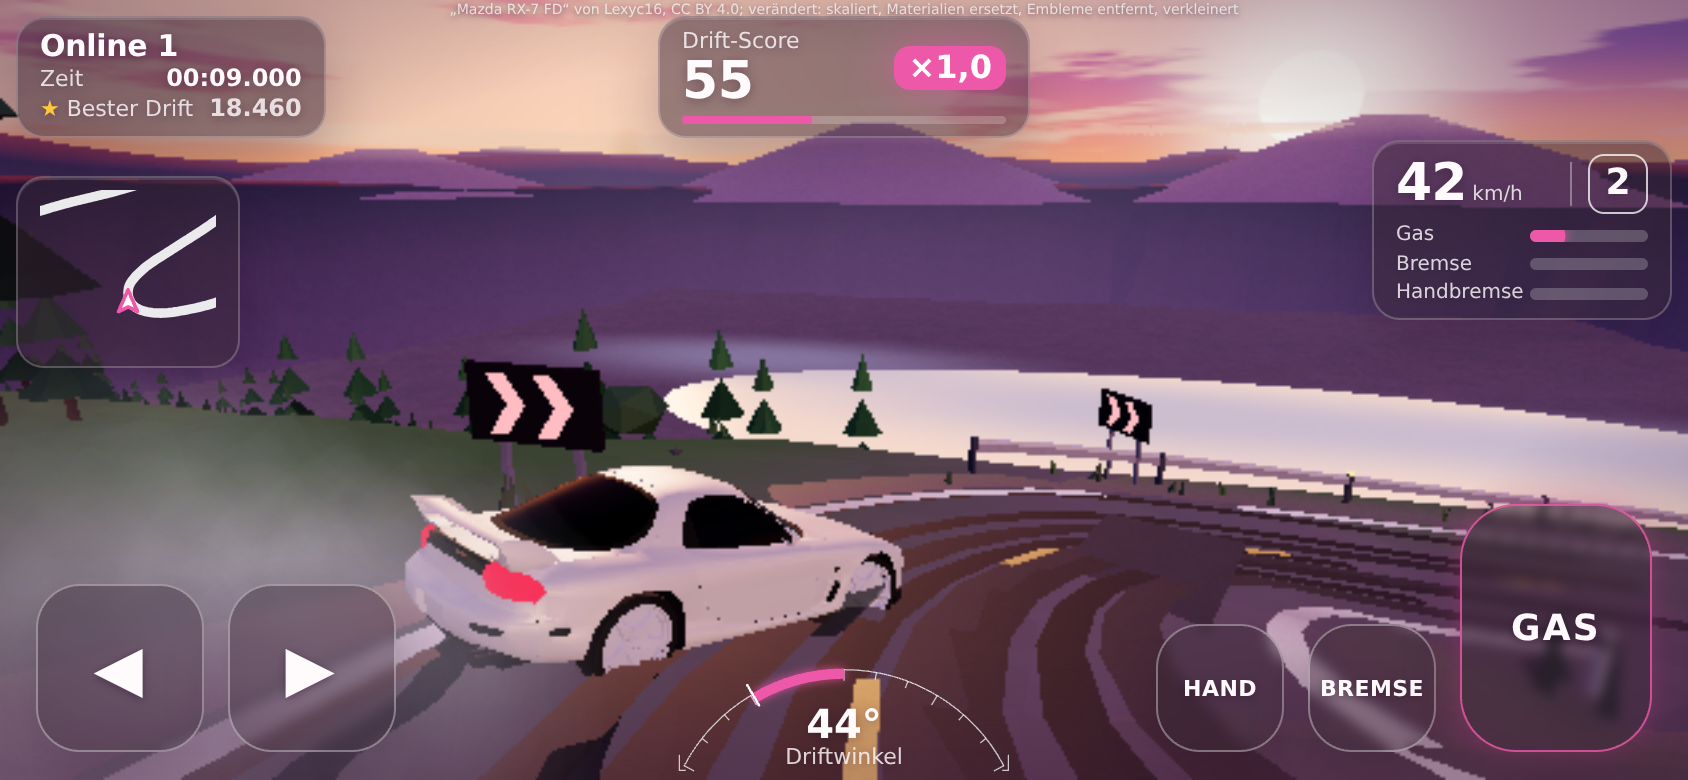
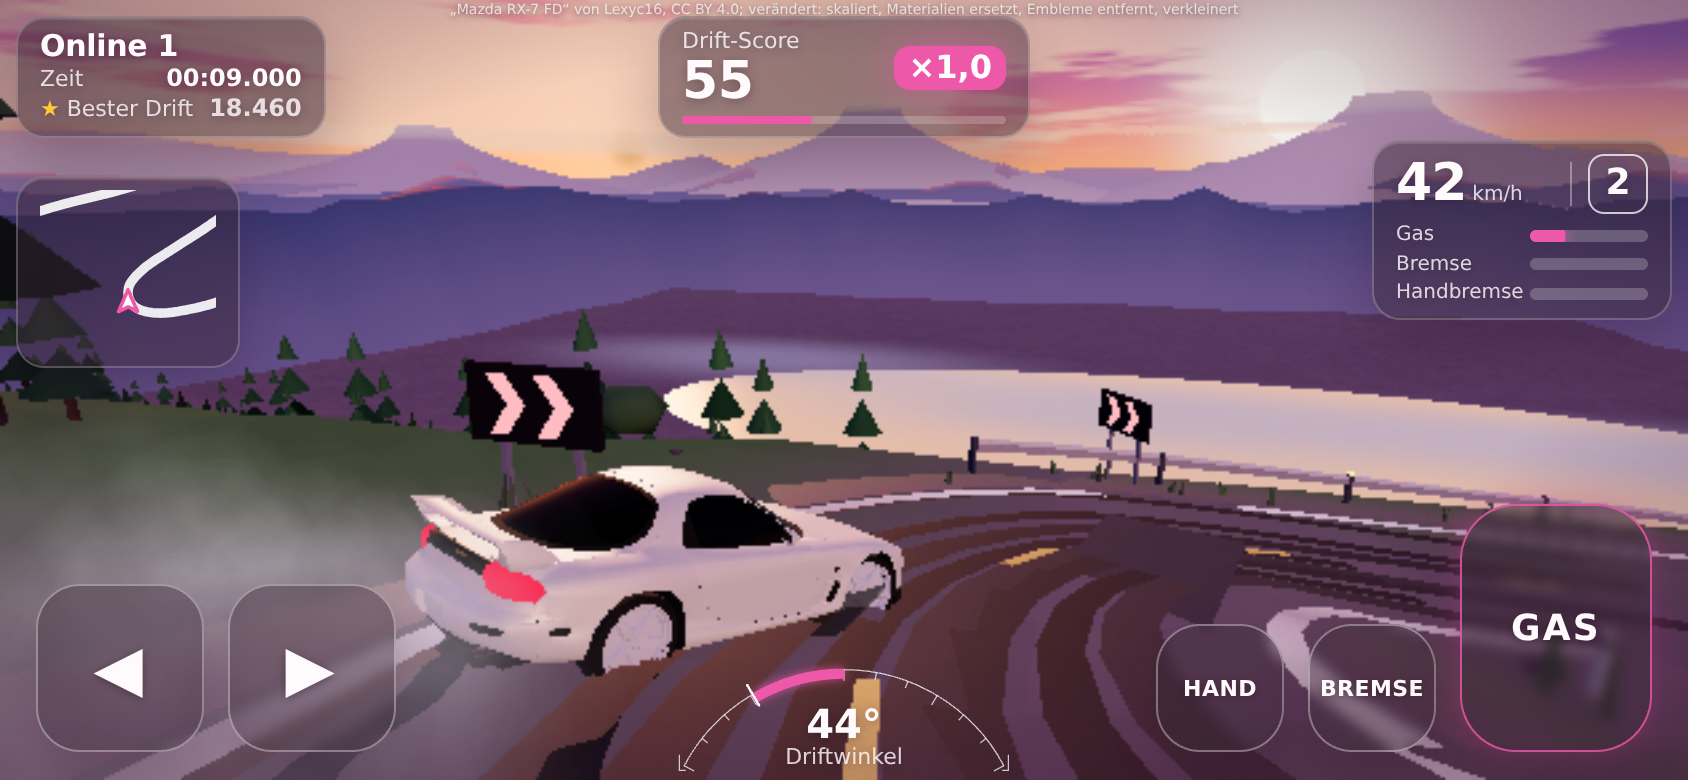
Touge look round 4 (chief's points 1-4): staggered unlit ridge layers lighter with distance (look.farUnlit), soft lathe volcanoes, smooth look, the lake mirrors the sky by direction with a light path, smoke capped in height and size; LOOK-LOG.md

diff --git a/game/view/look/world.js b/game/view/look/world.js
@@ -60,7 +60,10 @@ export function buildWorld(scene, look, tierName = 'high') {
   const onPlaza = scene.plaza && !scene.road.overPlaza ? (x, z) => insidePoly(scene.plaza.pts, x, z) : () => false;   // (`overPlaza`: the road is drawn on top of the flat area, as a track on a quay or a desert)
 
   land(S, f, scene, look, tier);
-  ridges(S, scene, look, tier);
+  // the far mountains: unlit when the look says so (`farUnlit`), so each layer keeps its own colour (lighter and rosier with distance,
+  // as in the mockup) instead of lying dark in its own shade against the low sun
+  const Far = new Builder({ seed: 8, jitter: 0, wobble: 0, bake: false });
+  ridges(look.farUnlit ? Far : S, scene, look, tier);
   const water = river(f, scene, look);
   if (scene.bridge) bridge(S, f, scene, look, lite);
   // the road has its own mesh: a slightly glossy material that shines in the low sun (the page gives it the sky as reflection)
@@ -95,6 +98,7 @@ export function buildWorld(scene, look, tierName = 'high') {
       diffuseColor.rgb *= 1.0 + tone;`);
   };
   const lights = new THREE.Mesh(G.build(), makeGlow());
+  const far = Far.count ? new THREE.Mesh(Far.build(), new THREE.MeshBasicMaterial({ vertexColors: true })) : null;
   const roadMesh = new THREE.Mesh(Rb.build(), new THREE.MeshStandardMaterial({ vertexColors: true, roughness: look.road.roughness ?? 0.5, metalness: 0, envMapIntensity: look.road.sheen ?? 0.8 }));
   roadMesh.receiveShadow = true;
   // the grain of the asphalt: fine speckles and coarse blotches from the world position (no texture file)
@@ -110,7 +114,8 @@ export function buildWorld(scene, look, tierName = 'high') {
   };
   group.add(solid, lights, roadMesh);
   if (water) group.add(water);
-  return { group, field: f, lampHeads, road: roadMesh, triangles: [solid, lights, water, roadMesh].filter(Boolean).reduce((n, m) => n + m.geometry.index.count / 3, 0) };
+  if (far) group.add(far);
+  return { group, field: f, lampHeads, road: roadMesh, triangles: [solid, lights, water, roadMesh, far].filter(Boolean).reduce((n, m) => n + m.geometry.index.count / 3, 0) };
 }
 
 // ---------------------------------------------------------------- the land: a grid over the extent, fine near the road (the core), coarser
@@ -163,11 +168,13 @@ function volcanoes(S, scene, look) {
   for (const [x, z, r, h, k] of scene.volcanoes ?? []) {
     // air between: the farther layer the more of the haze; a lighter crater rim (snow or bare rock, look.volcano.rim) at the top
     const V = look.volcano ?? {}, vh = C(V.hazeColour ?? look.fog.colour), base = C(look.ridges[Math.min(look.ridges.length - 1, k ?? 0)]).lerp(vh, V.haze ?? 0.35), top = base.clone().lerp(C(V.rim ?? '#ffffff'), V.rimMix ?? 0.15);
-    const g = new THREE.CylinderGeometry(r * 0.12, r, h, 28, 3, true);
+    // a lathe with concave flanks (wide skirt, steep upper cone, a small crater): soft, not a sharp-edged cone
+    const prof = []; for (let j = 0; j <= 10; j++) { const t = j / 10; prof.push(new THREE.Vector2(r * (0.1 + 0.9 * Math.pow(1 - t, 1.8)), t * h)); }
+    const g = new THREE.LatheGeometry(prof, 40);
     const p = g.attributes.position, col = new Float32Array(p.count * 3), c = new THREE.Color();
-    for (let i = 0; i < p.count; i++) { const t = (p.getY(i) + h / 2) / h, a = Math.atan2(p.getZ(i), p.getX(i)); p.setY(i, p.getY(i) + noise2(a * 3 + x, t * 4) * h * 0.04 * (1 - t)); c.copy(base).lerp(top, smoothstep(0.75, 0.95, t)).lerp(haze, (1 - t) * 0.45); col.set([c.r, c.g, c.b], i * 3); }
+    for (let i = 0; i < p.count; i++) { const t = p.getY(i) / h, a = Math.atan2(p.getZ(i), p.getX(i)); p.setY(i, p.getY(i) + noise2(a * 3 + x, t * 4) * h * 0.035 * (1 - t)); c.copy(base).lerp(top, smoothstep(0.78, 0.97, t)).lerp(haze, (1 - t) * 0.45); col.set([c.r, c.g, c.b], i * 3); }
     g.setAttribute('color', new THREE.BufferAttribute(col, 3)); g.computeVertexNormals();
-    S.add(g, null, { m: trs(X(x), h / 2 - h * 0.12, z), keepColors: true, jitter: 0, wobble: 0 });
+    S.add(g, null, { m: trs(X(x), -h * 0.1, z), keepColors: true, jitter: 0, wobble: 0 });
   }
 }
 
@@ -208,9 +215,12 @@ function river(f, scene, look) {
   if (scene.sea) { const [a0, b0, a1, b1] = scene.terrain.extent; geos.push(gridGeo(5, 5, (r, c) => { const x = a0 + (c / 4) * (a1 - a0), z = b0 + (r / 4) * (b1 - b0); k.copy(deep).lerp(light, 0.2 + 0.25 * noise2(x / 120, z / 120)); return [X(x), scene.sea.y, z, k]; })); }
   // the lake: rings of an ellipse, lighter towards the middle
   const K = scene.lake, ky = K ? f.waterY(K.x, K.z, K.y) : 0;
-  if (K) geos.push(gridGeo(8, 49, (r, c) => {
-    const q = 1 - r / 7, a = (c / 48) * Math.PI * 2;
-    k.copy(deep).lerp(light, 0.15 + (1 - q) * 0.55);
+  if (K) geos.push(gridGeo(10, 97, (r, c) => {
+    const q = 1 - r / 9, a = (c / 96) * Math.PI * 2;
+    // the sky in the water: bright and orange on the side towards the sun, darker towards the viewer, and a path of light to the sun
+    const sd = look.sun?.dir ?? [0, 0, -1], sl = Math.hypot(sd[0], sd[2]) || 1, ux = Math.cos(a) * q, uz = Math.sin(a) * q;
+    const along = (ux * sd[0] + uz * sd[2]) / sl, across = Math.abs(ux * sd[2] - uz * sd[0]) / sl;
+    k.copy(deep).lerp(light, Math.min(1, 0.12 + 0.5 * smoothstep(-0.6, 1, along) + 0.45 * (1 - smoothstep(0.02, 0.14, across)) * smoothstep(-0.2, 0.9, along)));
     return [X(K.x + Math.cos(a) * K.rx * q), ky, K.z + Math.sin(a) * K.rz * q, k];
   }));
   if (!geos.length) return null;

diff --git a/game/view/look/billows.js b/game/view/look/billows.js
@@ -85,6 +85,8 @@ export class Billows {
     this.life0 = S.life ?? 2.0; this.lifeK = S.lifeGrow ?? 1.6; this.grow0 = S.start ?? 2.0; this.growK = S.spread ?? 6.5;
     this.burst = S.burst ?? 1; this.burstTime = S.burstTime ?? 0.5; this.fade = S.fade ?? 0.5;
     this.clock = 0; this.lastEmit = -9; this.slideStart = 0;
+    // never a wall: the puffs rise at most `maxRise` m over where they started and grow to at most `maxSize` m
+    this.maxRise = S.maxRise ?? 99; this.maxSize = S.maxSize ?? 99; this.base = new Float32Array(this.cap);
   }
   /** The car's place for the fade (drawing space) and the camera: puffs in front of the car that would cover it fade out. */
   aim(camera, radius = 1.6) {
@@ -94,7 +96,7 @@ export class Billows {
   rnd() { this.seed = (this.seed * 16807) % 2147483647; return this.seed / 2147483647; }
   emit(x, y, z, vx, vz, strength) {
     const i = this.next; this.next = (this.next + 1) % this.cap;
-    this.pos.set([x, y + 0.3, z], i * 3);
+    this.pos.set([x, y + 0.3, z], i * 3); this.base[i] = y;
     this.vel.set([vx + (this.rnd() - 0.5) * 1.4, 0.35 + strength * 0.4, vz + (this.rnd() - 0.5) * 1.4], i * 3);
     if (this.clock - this.lastEmit > 0.4) this.slideStart = this.clock;
     this.lastEmit = this.clock;
@@ -107,6 +109,7 @@ export class Billows {
       if (this.age[i] >= this.life[i]) continue;
       this.age[i] += dt;
       for (let a = 0; a < 3; a++) this.pos[i * 3 + a] += this.vel[i * 3 + a] * dt;
+      if (this.pos[i * 3 + 1] > this.base[i] + this.maxRise) { this.pos[i * 3 + 1] = this.base[i] + this.maxRise; this.vel[i * 3 + 1] = 0; }
       this.vel[i * 3] *= 1 - dt * 0.7; this.vel[i * 3 + 2] *= 1 - dt * 0.7;
     }
   }
@@ -115,7 +118,7 @@ export class Billows {
     for (let i = 0; i < this.cap; i++) {
       const k = this.age[i] / this.life[i];
       d[i * 4] = this.pos[i * 3]; d[i * 4 + 1] = this.pos[i * 3 + 1]; d[i * 4 + 2] = this.pos[i * 3 + 2];
-      d[i * 4 + 3] = k >= 1 ? 0 : (this.grow0 + k * this.growK) * this.grow[i] * this.scale;
+      d[i * 4 + 3] = k >= 1 ? 0 : Math.min(this.maxSize, (this.grow0 + k * this.growK) * this.grow[i] * this.scale);
       al[i * 2] = k >= 1 ? 0 : this.opacity * Math.pow(1 - k, 1 / this.fade) * Math.min(1, k * 5);   // fade < 1: thins out sooner al[i * 2 + 1] = this.spin[i] + k * 0.6;
     }
     this.data.needsUpdate = true; this.alpha.needsUpdate = true;

diff --git a/docs/LOOK-LOG.md b/docs/LOOK-LOG.md
@@ -364,3 +364,15 @@ to keep the high tier under 400k triangles a frame: high cell 4.5 m, 550 + 320 c
    A seam in the sky (the azimuth of the cloud streaks jumped at +-180 degrees) is gone: azimuth now measured from the sun.
 7. Road: neutral grey asphalt, little sheen, clear edge and centre lines.
 Numbers unchanged: high 336k triangles / 49 calls.
+
+## Touge round 4 (2026-11-26): the new chief's review, points 1 to 4
+
+1. Sky: the hard vertical edge in the cloud streaks (the azimuth seam) was fixed in round 3; checked again: gone.
+2. Mountains: five ridge rings staggered behind the lake, each lighter and rosier than the one before (`look.ridges`), drawn unlit
+   (`look.farUnlit`: a mesh of its own with the layer colours, so they do not lie dark in their own shade against the low sun); the
+   volcanoes are lathes with concave, soft flanks and a small crater (no sharp-edged cones); the touge look is smooth (`facets: false`).
+3. Lake: the sky in the water by direction: bright orange on the side towards the sun, darker towards the viewer, and a path of light
+   to the sun (finer lake grid); less of its own glow, so the gradient shows.
+4. Smoke: puffs never rise more than `maxRise` (1.3 m) over where they started and never grow past `maxSize` (4.2 m): no smoke high up
+   behind the HUD cards; soft wisps, light on top, shaded underneath.
+Numbers: high 343k triangles / 50 calls, phone tier 82k / 22. Tests 128 green.
